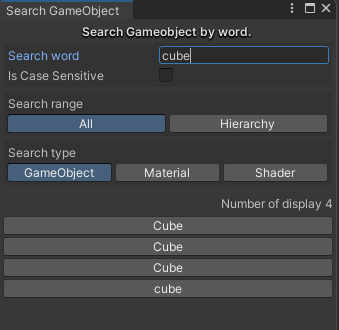
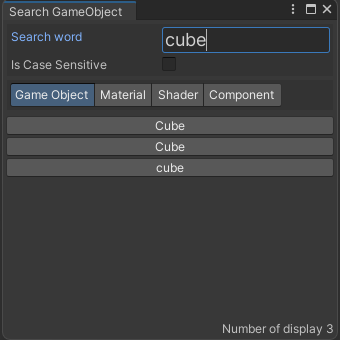
update readme

diff --git a/README.md b/README.md
@@ -1,6 +1,6 @@
 # SearchGameObjectWindow
 
-UnityプロジェクトのGameObjectを検索する機能を提供するエディタ拡張
+UnityプロジェクトのHierarchy ウィンドウに作成されているGameObjectを検索する機能を提供します。
 
 ## インストール方法
 
@@ -26,16 +26,16 @@ Search wordに文字入力することで検索処理が実行され、ウィン
 
 検索結果に表示されているゲームオブジェクトをクリックすると、Hierarchy ウィンドウ上でそのオブジェクトが選択されます。
 
-### 選択範囲
+### 検索範囲
 
-- シーン内のゲームオブジェクト
 - Hierarchy ウィンドウ
 
 ### 検索対象
 
-- ゲームオブジェクト名
-- マテリアル
-- シェーダー
+- Game Object
+- Material
+- Shader
+- Component
 
 ## Unityバージョン
 
